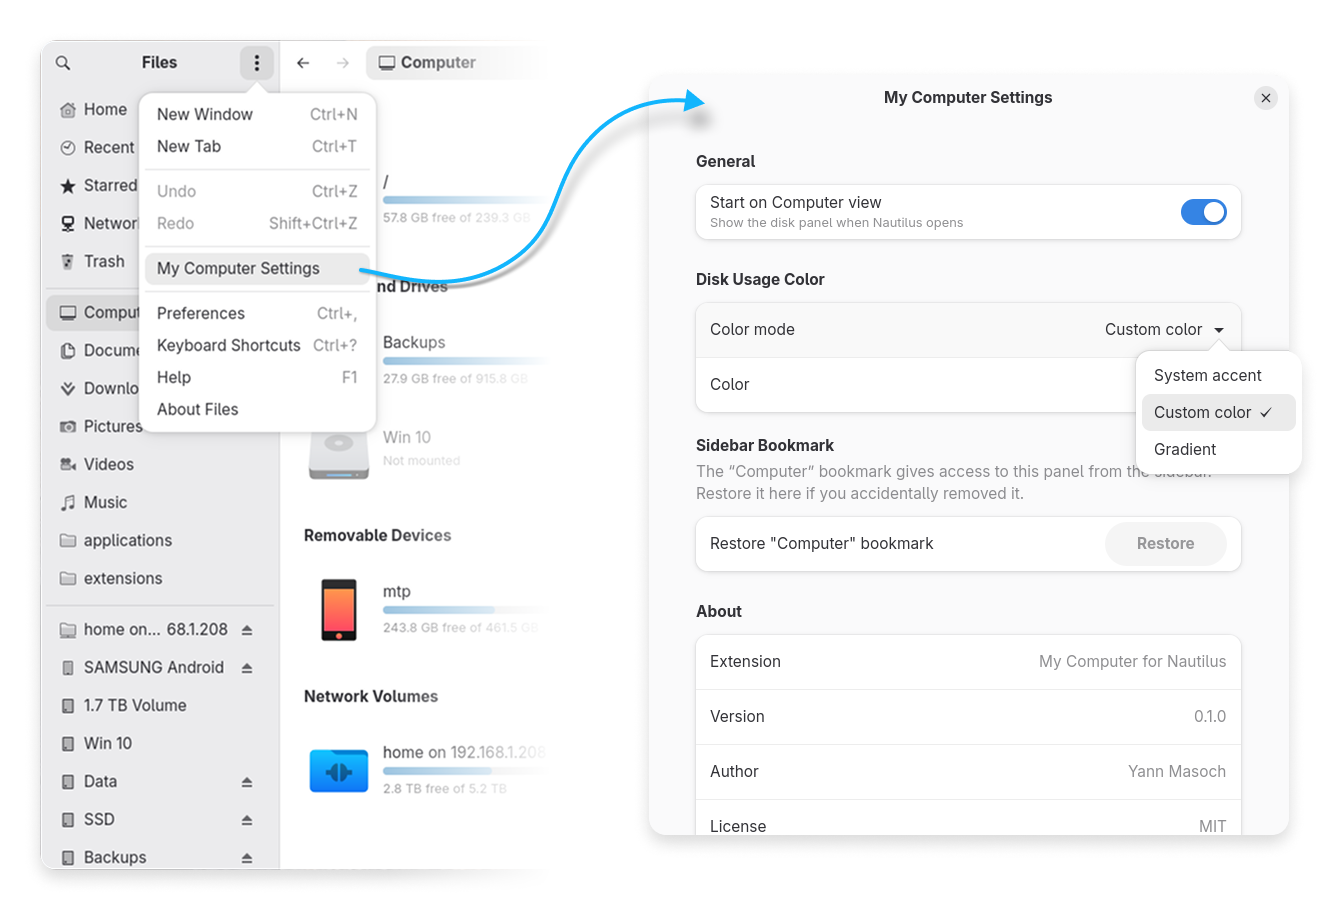
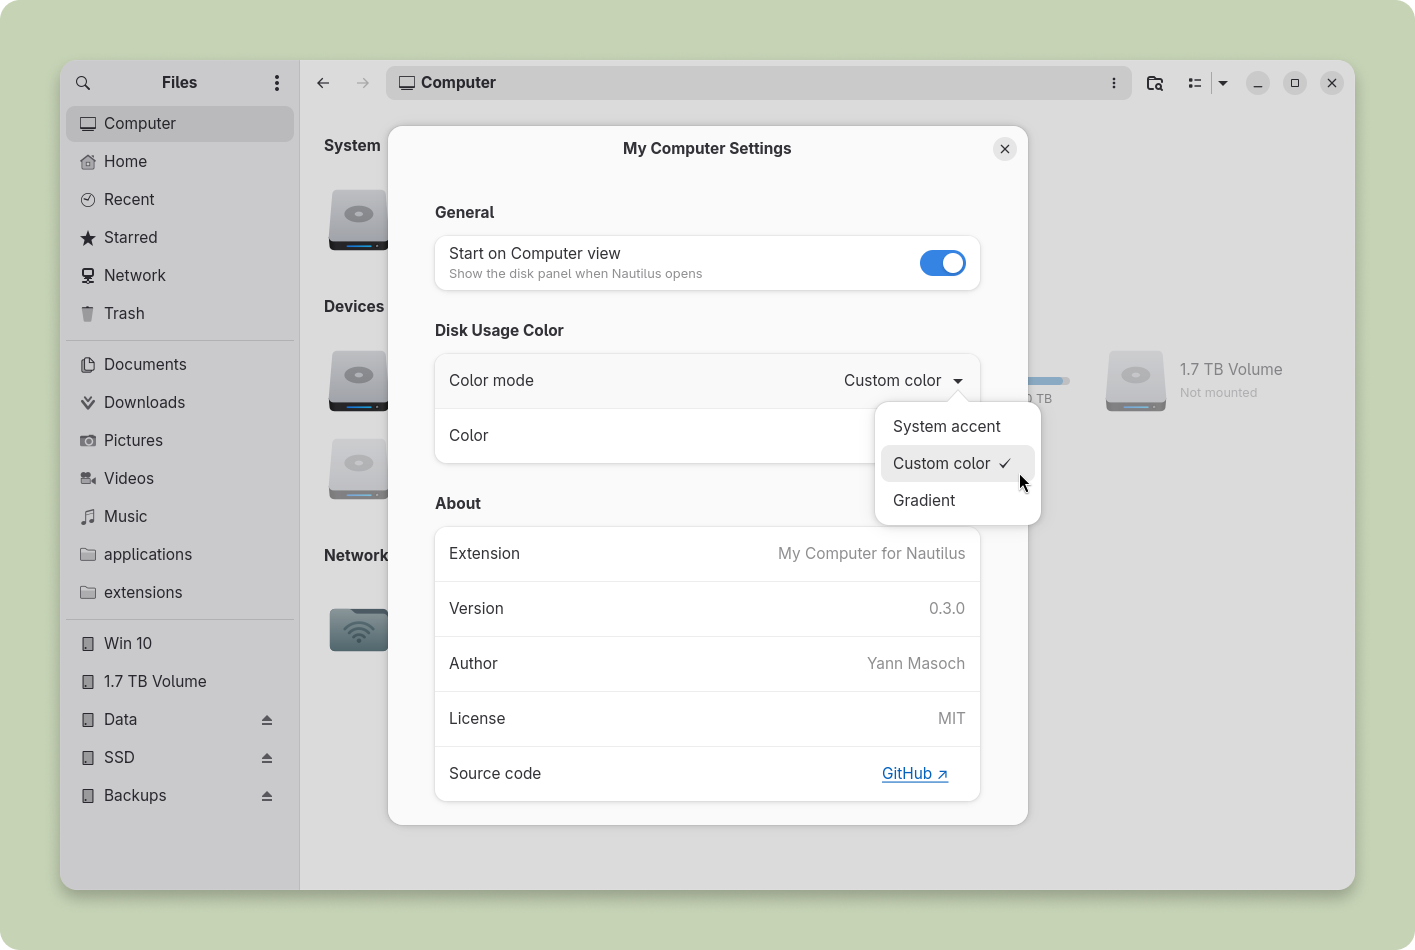
docs: update README and assets for v0.3.0

diff --git a/README.md b/README.md
@@ -8,6 +8,7 @@
 
 <br>
 
+![GitHub Tag](https://img.shields.io/github/v/tag/yannmasoch/nautilus-my-computer)
 ![GitHub License](https://img.shields.io/github/license/yannmasoch/nautilus-my-computer?color=50fa7b)
 [![Stars](https://img.shields.io/github/stars/yannmasoch/nautilus-my-computer?style=social)](https://github.com/yannmasoch/nautilus-my-computer/stargazers)
 
@@ -46,23 +47,27 @@ Nothing is written outside your home directory.
 
 > To uninstall, re-run the installer and choose **Uninstall**. It removes the extension, the schema, and resets all preferences.
 
+## My Computer
 
-## Features
+### Sidebar integration
 
-- **All your storage in one place:** local drives, USB sticks, phones, network mounts, and removable media grouped by type.
-- **Usage bars:** at-a-glance capacity for every mounted volume.
-- **Mount & eject:** mount, unmount, and eject volumes directly from the panel without leaving Files.
-- **Live refresh:** the panel updates automatically when drives are connected or disconnected.
-- **Fully native:** follows your GNOME accent color, icon theme, and dark/light mode with no extra configuration.
-- **Customizable bars:** choose between GNOME accent color, a custom color, or a custom gradient for the usage bars.
-- **Start on My Computer:** choose to open GNOME Files directly on the My Computer panel every time.
-- **Right-click context menu:** open, open in new tab, open in new window, mount, unmount, and eject volumes directly from a native-feel context menu.
+Computer sits at the top of the GNOME Files sidebar, click to open the panel and right-click for settings.
+
+![Computer button](assets/images/computer-button.png)
+
+### Settings page
+
+My Computer Settings let you open GNOME Files directly on the Computer view at startup, and customize the disk usage bar color to match your style.
+
+![Settings Page](assets/images/settings-page.png)
+
+> Settings are stored via GSettings under `io.github.yannmasoch.nautilus-my-computer` and persist across sessions.
 
 ## Style
 
 ### Color mode for disk usage bars
 
-Volume capacity is shown as a native `Gtk.LevelBar`. Three color modes are available in Settings:
+Disk usage is shown as a native `Gtk.LevelBar`. Three color modes are available in Settings.
 
 ![Color mode preview](assets/images/color-mode.png)
 
@@ -76,23 +81,27 @@ The panel follows GNOME's light/dark preference natively, with no extra configur
 
 ![Light and dark mode](assets/images/light-and-dark-mode.png)
 
-### Settings page & Nautilus menu integration
-
-The Settings page is accessible directly from the Nautilus menu **(⋮)**
-
-![Settings Page](assets/images/settings-page.png)
-
-> Settings are stored via GSettings under `io.github.yannmasoch.nautilus-my-computer` and persist across sessions.
-
 ### GNOME icon theme
 
 All icons are native GNOME icons. My Computer works with any custom icon theme.
 
+## Features
+
+- **All your storage in one place:** local drives, USB sticks, phones, network mounts, and removable media grouped by type.
+- **Usage bars:** at-a-glance capacity for every mounted volume.
+- **Mount & eject:** mount, unmount, and eject volumes directly from the panel without leaving Files.
+- **Live refresh:** the panel updates automatically when drives are connected or disconnected.
+- **Fully native:** follows your GNOME accent color, icon theme, and dark/light mode with no extra configuration.
+- **Customizable bars:** choose between GNOME accent color, a custom color, or a custom gradient for the usage bars.
+- **Start on My Computer:** choose to open GNOME Files directly on the My Computer panel every time.
+- **Right-click context menu:** open, open in new tab, open in new window, mount, unmount, and eject volumes directly from a native-feel context menu.
+  
 ## Tested on
 
 | | Distro | GNOME Files | Status |
 |---|--------|-------------|--------|
 | ✅ | Arch | 50.2.2 | Fully working |
+| ✅ | Fedora 44 Workstation | 50.2.2 | Fully working |
 | ✅ | Fedora 44 Workstation | 50.0 | Fully working |
 | ✅ | Ubuntu 26.04 LTS | 50.0 | Fully working |
 | ☑️ | Zorin OS 18 | 46.4 | Partial, background colors and the My Computer menu entry are not available (Zorin ships a customised build of GNOME Files). Will be improved in a future release |

diff --git a/ROADMAP.md b/ROADMAP.md
@@ -33,6 +33,7 @@ This roadmap reflects planned fixes, features, and improvements. It is subject t
 ## v0.3.3 — UX
 - UX: reduce space between group label and cards
 - UX: improve linear template for list view
+- UX: adjust top margin of Computer button
 
 ## Upcoming
 Contributions, suggestions or languages welcome via Issues.